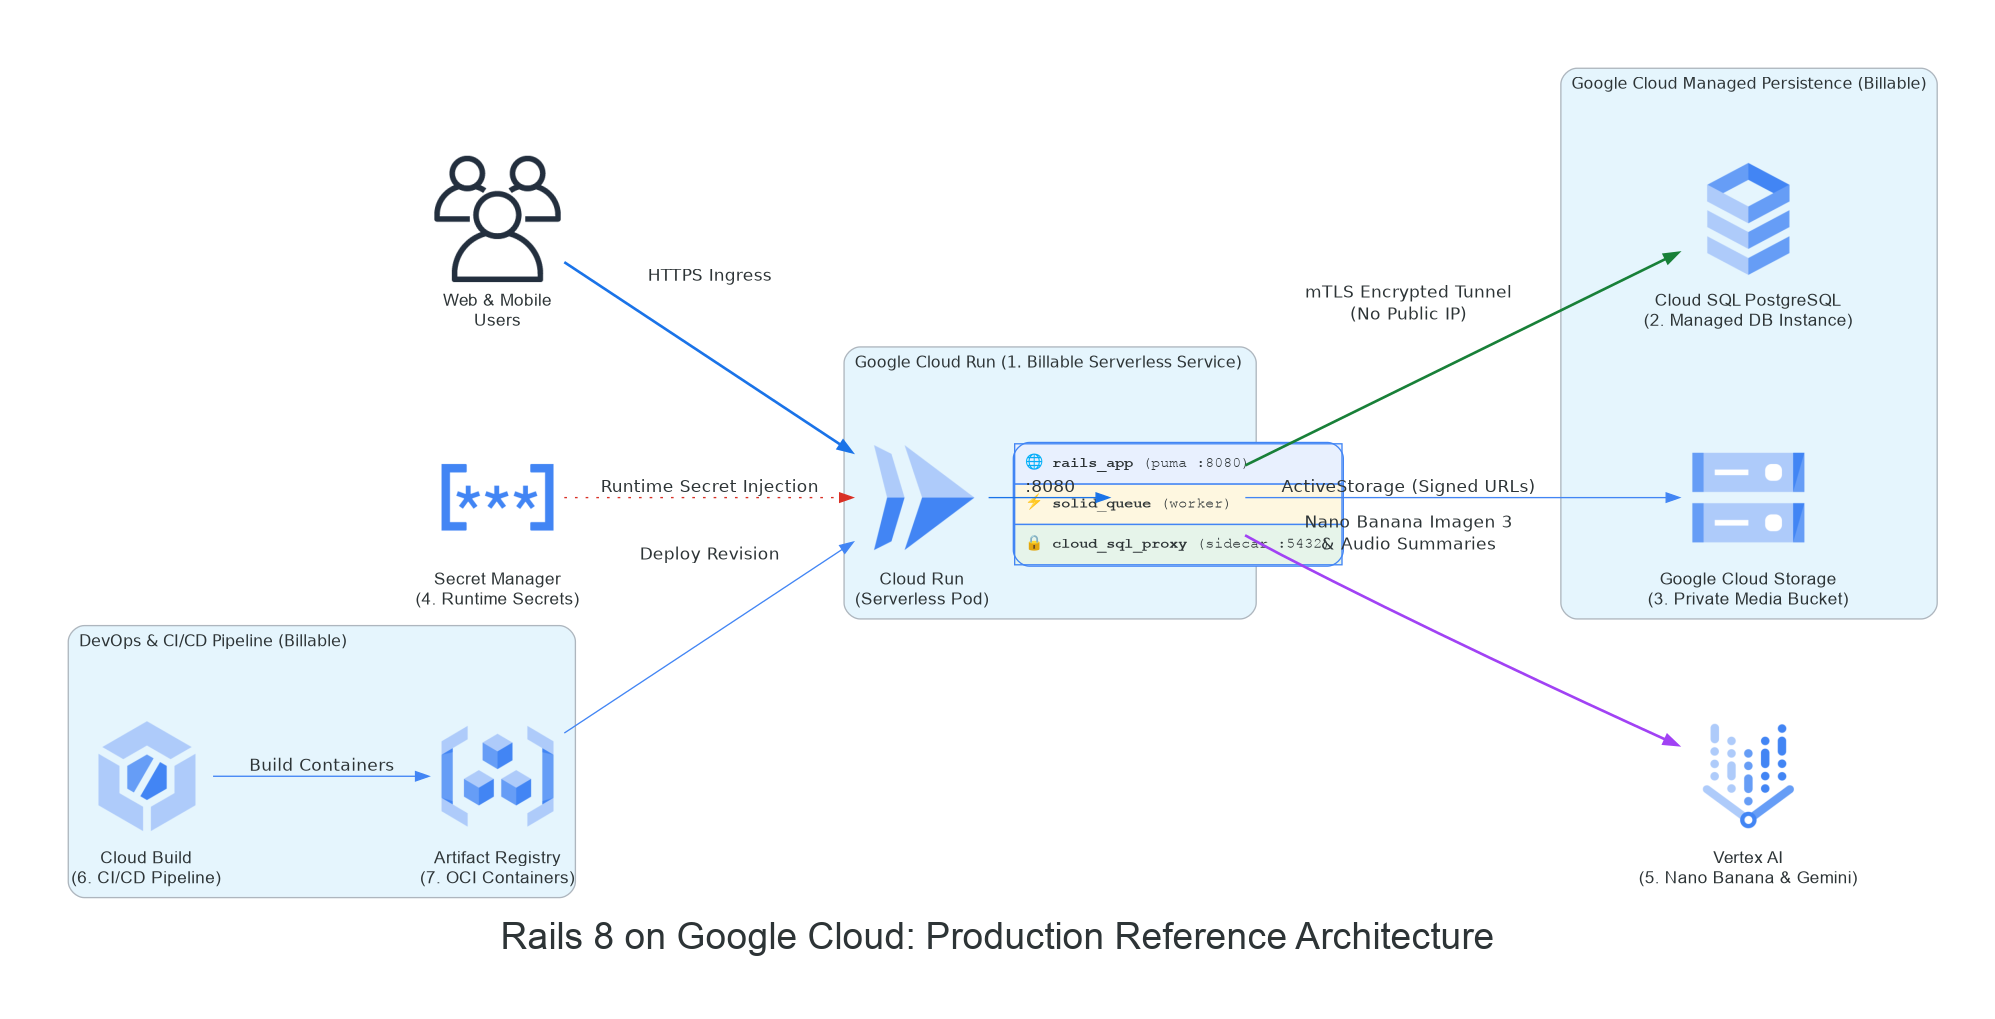
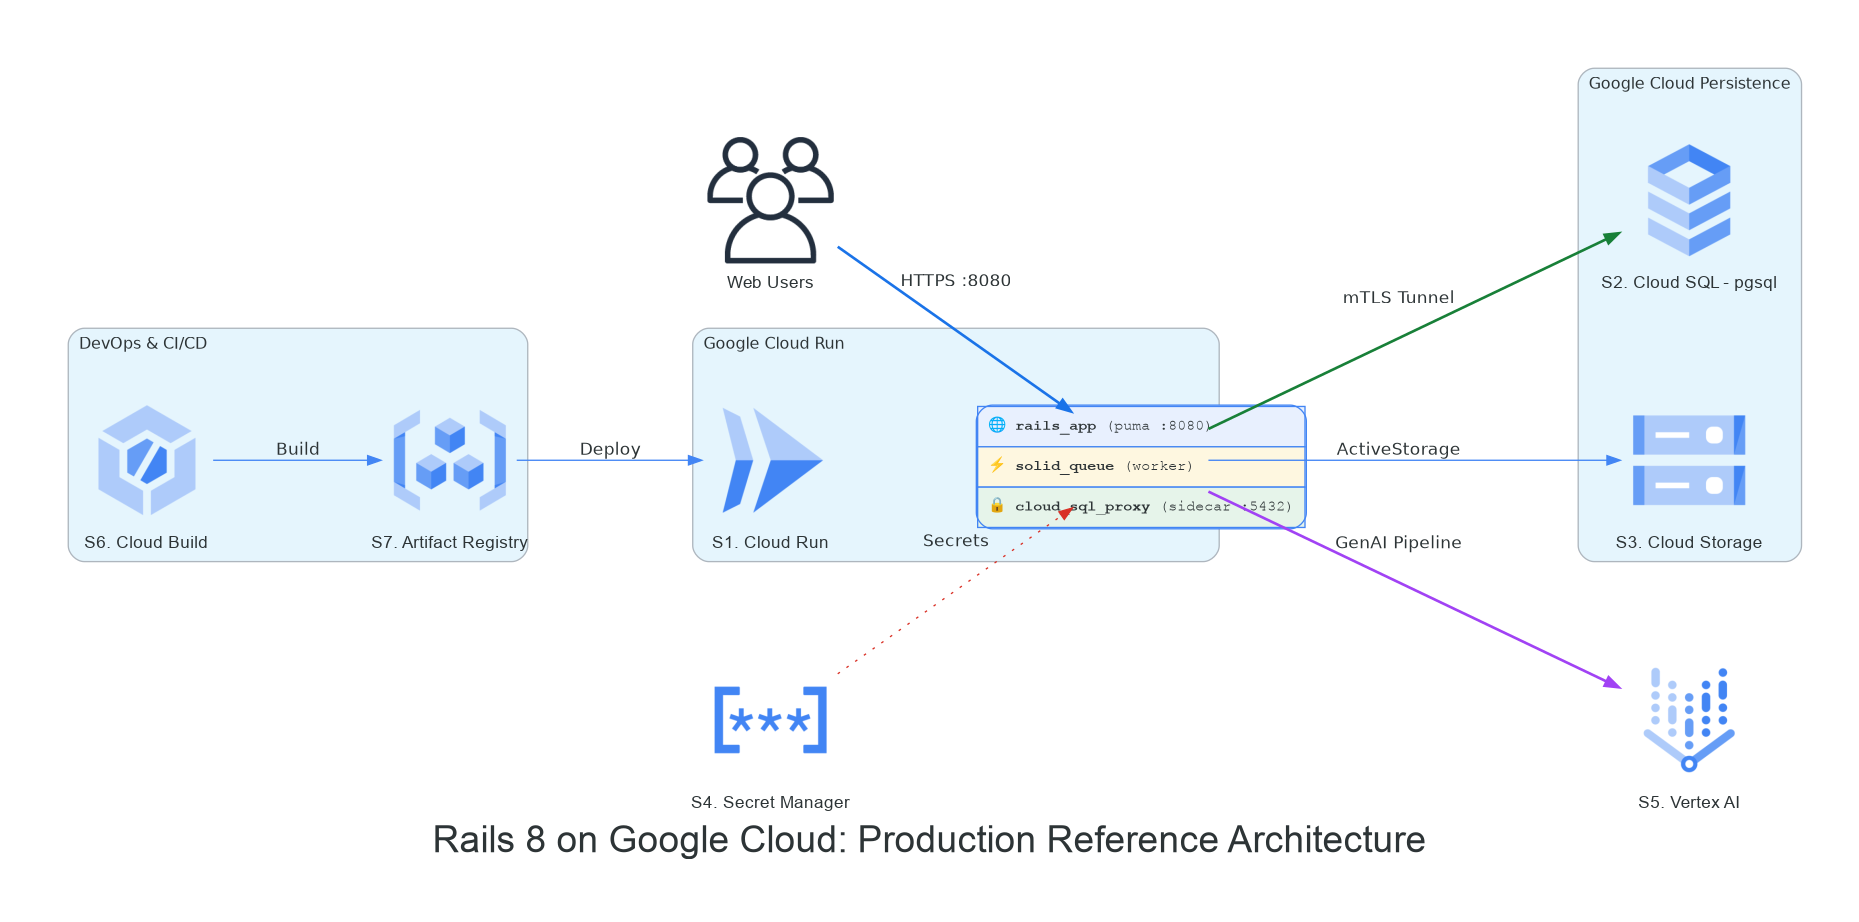
feat(diagrams): refine canonical GCP architecture diagram labels, layout, and assets (v0.2.22)

diff --git a/diagrams/generate_diagrams.py b/diagrams/generate_diagrams.py
@@ -37,6 +37,8 @@ GRAPH_ATTRS = {
     "bgcolor": "white",
     "pad": "0.6",
     "splines": "spline",
+    "nodesep": "0.8",
+    "ranksep": "1.3",
 }
 
 NODE_ATTRS = {
@@ -81,41 +83,41 @@ def generate_canonical():
         edge_attr=EDGE_ATTRS,
         outformat="png",
     ):
-        users = Users("Web & Mobile\nUsers")
+        users = Users("Web Users")
 
-        with Cluster("Google Cloud Run (1. Billable Serverless Service)"):
-            cloud_run = Run("Cloud Run\n(Serverless Pod)")
+        with Cluster("Google Cloud Run"):
+            cloud_run = Run("S1. Cloud Run")
             containers = Node(label=CONTAINERS_TABLE_HTML, shape="none")
-            cloud_run >> Edge(label=":8080", color="#1a73e8") >> containers
+            cloud_run - Edge(style="invis") - containers
 
-        with Cluster("Google Cloud Managed Persistence (Billable)"):
-            db = SQL("Cloud SQL PostgreSQL\n(2. Managed DB Instance)")
-            gcs = Storage("Google Cloud Storage\n(3. Private Media Bucket)")
+        with Cluster("Google Cloud Persistence"):
+            db = SQL("S2. Cloud SQL - pgsql")
+            gcs = Storage("S3. Cloud Storage")
 
-        sm = SecretManager("Secret Manager\n(4. Runtime Secrets)")
-        vertex = VertexAI("Vertex AI\n(5. Nano Banana & Gemini)")
+        sm = SecretManager("S4. Secret Manager")
+        vertex = VertexAI("S5. Vertex AI")
 
-        with Cluster("DevOps & CI/CD Pipeline (Billable)"):
-            cb = Build("Cloud Build\n(6. CI/CD Pipeline)")
-            ar = ContainerRegistry("Artifact Registry\n(7. OCI Containers)")
+        with Cluster("DevOps & CI/CD"):
+            cb = Build("S6. Cloud Build")
+            ar = ContainerRegistry("S7. Artifact Registry")
 
         # Ingress traffic
-        users >> Edge(label="HTTPS Ingress", color="#1a73e8", style="bold") >> cloud_run
+        users >> Edge(label="HTTPS :8080", color="#1a73e8", style="bold") >> containers
 
         # Database connections via localhost Cloud SQL proxy
-        containers >> Edge(label="mTLS Encrypted Tunnel\n(No Public IP)", color="#188038", style="bold") >> db
+        containers >> Edge(label="mTLS Tunnel", color="#188038", style="bold", minlen="2") >> db
 
         # Object Storage
-        containers >> Edge(label="ActiveStorage (Signed URLs)", color="#4285F4") >> gcs
+        containers >> Edge(label="ActiveStorage", color="#4285F4", minlen="2") >> gcs
 
         # Secret injection
-        sm >> Edge(label="Runtime Secret Injection", color="#d93025", style="dotted") >> cloud_run
+        sm >> Edge(label="Secrets", color="#d93025", style="dotted") >> containers
 
         # GenAI Async Pipeline
-        containers >> Edge(label="Nano Banana Imagen 3\n& Audio Summaries", color="#a142f4", style="bold") >> vertex
+        containers >> Edge(label="GenAI Pipeline", color="#a142f4", style="bold", minlen="2") >> vertex
 
         # CI/CD deployment
-        cb >> Edge(label="Build Containers") >> ar >> Edge(label="Deploy Revision") >> cloud_run
+        cb >> Edge(label="Build") >> ar >> Edge(label="Deploy") >> cloud_run
 
     generated_png = OUTPUT_TMP_DIR / "arch_diagram.png"
     if not generated_png.exists():

diff --git a/CHANGELOG.md b/CHANGELOG.md
@@ -2,8 +2,9 @@ All notable changes to this project will be documented in this file.
 
 ## [0.2.22] - 2026-09-11
 ### Changed
-- 📐 **Codelab Page 1 Layout Modernization**:
+- 📐 **Codelab Page 1 Layout Modernization & Diagram Refinements**:
   - Reordered Page 1 (Overview) in `workshop/CODELAB.md` to place the Target Reference Architecture (**Variant 1: Clean Flat Vector Enterprise**) and evolution GIF prominently *above* the "What you'll learn" section.
+  - Refined deterministic architecture diagram generator (`diagrams/generate_diagrams.py`) with compact service identifiers (`S1`..`S7`), cleaner edge routing, and updated canonical diagram assets (`assets/arch_diagram.png`).
 
 ## [0.2.21] - 2026-09-10
 ### Added
